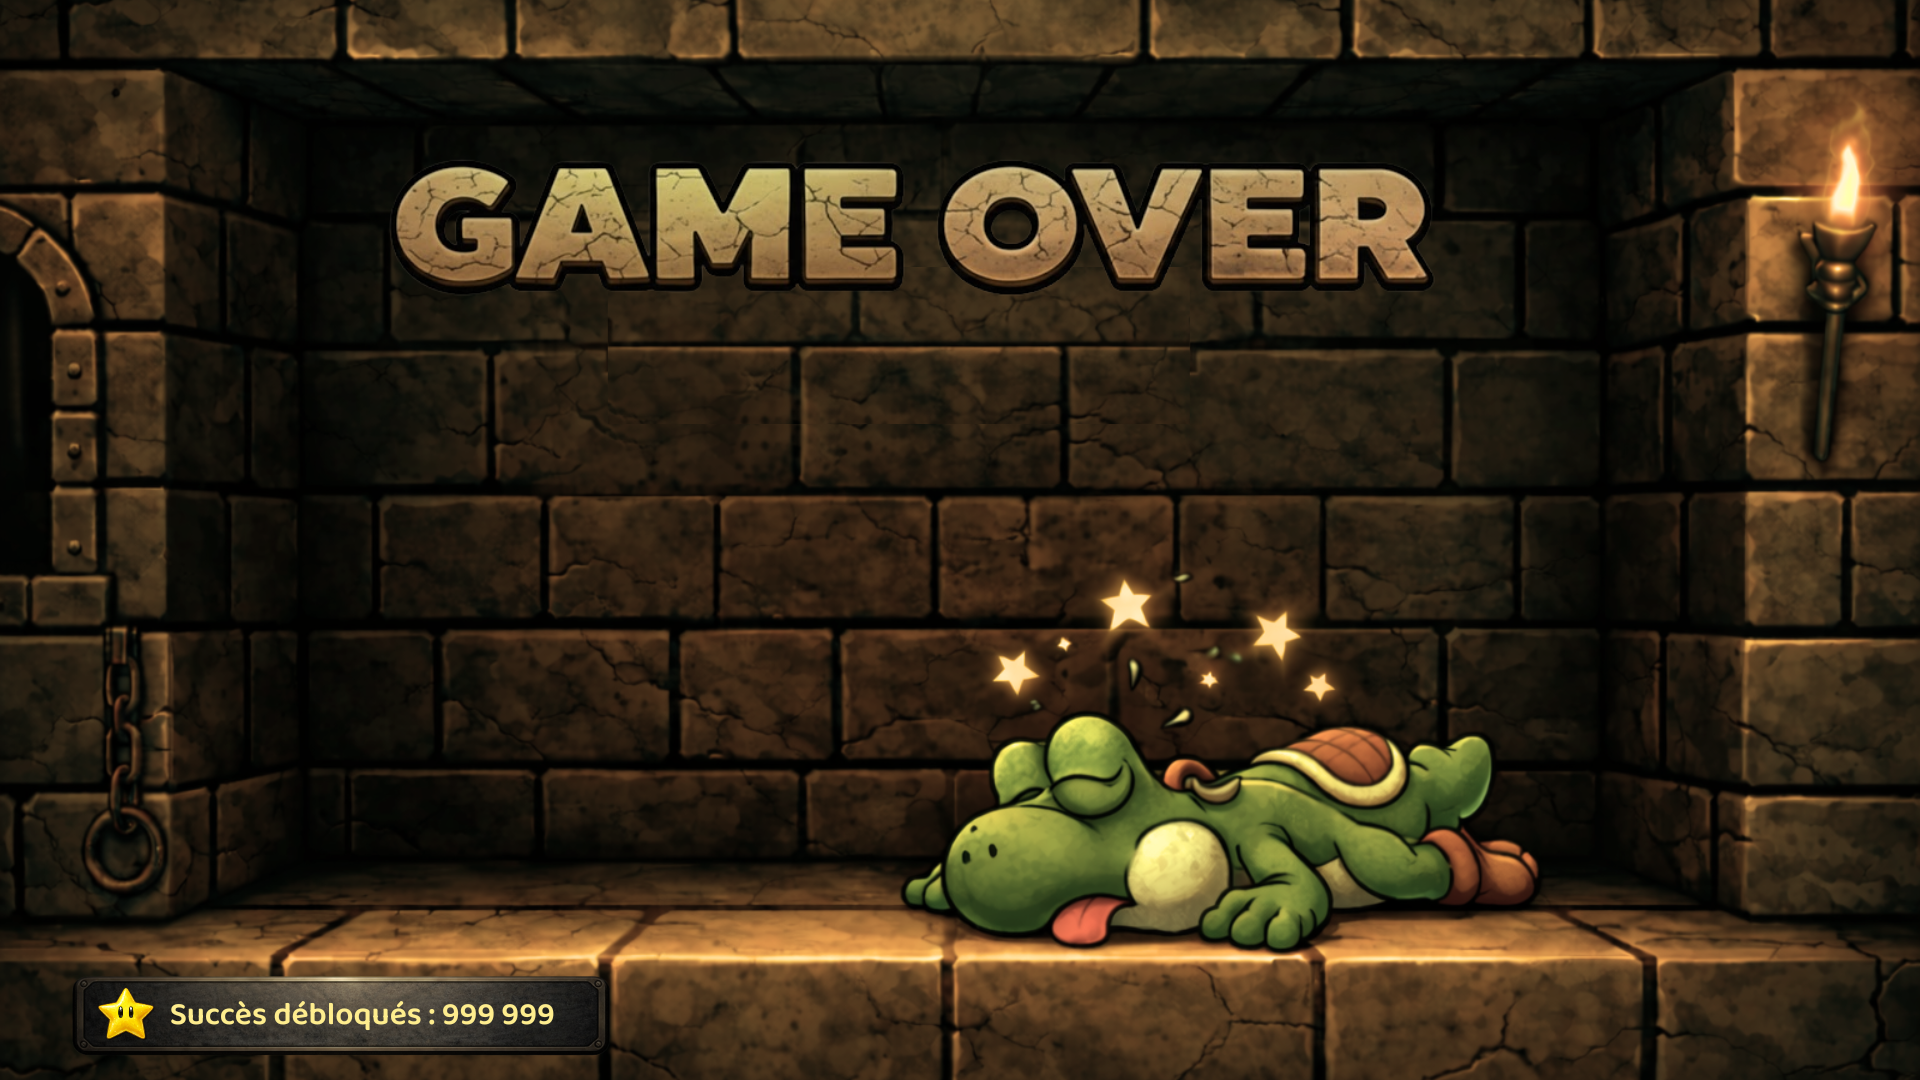
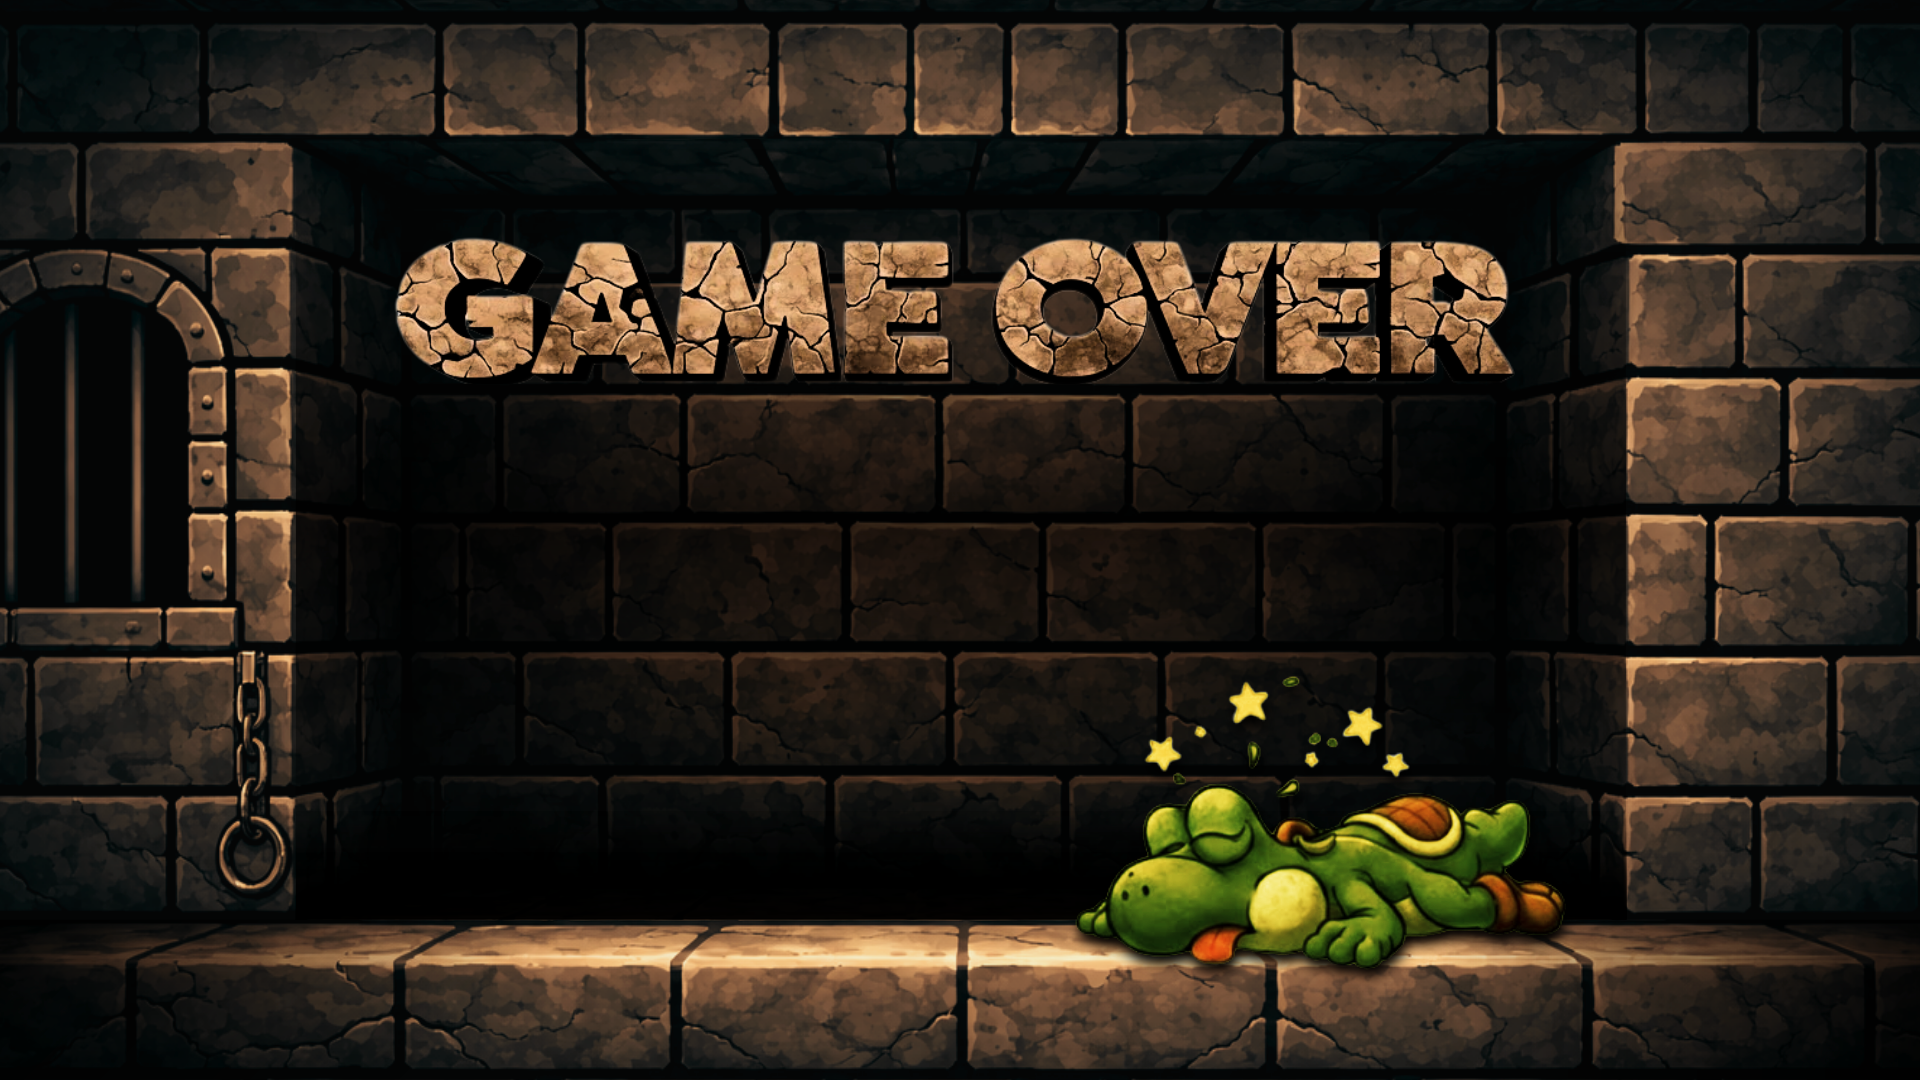
feat(game-over): rebuild scene with correct assets, FR/EN backgrounds, positions and achievements display

diff --git a/scenes/game_over_scene.py b/scenes/game_over_scene.py
@@ -5,6 +5,10 @@ GameOverScene - Écran de fin de partie.
 - Explosion : bombe tranchée (mode classique)
 - K.O : 3 cœurs perdus (mode classique)
 - Temps écoulé : fin du timer (mode challenge)
+
+Assets bilingues :
+- Les backgrounds changent selon la langue (FR/EN)
+- Les boutons sont identiques, le texte est ajouté dynamiquement
 """
 
 import pygame
@@ -14,7 +18,7 @@ from typing import List, Optional
 from scenes.base_scene import BaseScene
 from config import (
     IMAGES_DIR, FONTS_DIR, WINDOW_WIDTH, WINDOW_HEIGHT,
-    Images, Layout, TextColors, FONT_FILE, FONT_SIZE
+    Images, Layout, TextColors, FONT_FILE
 )
 from core import lang_manager
 from ui.buttons import Button
@@ -23,9 +27,11 @@ from ui.buttons import Button
 class GameOverScene(BaseScene):
     """Scène de fin de partie."""
     
-    # Tailles de police
-    SCORE_FONT_SIZE = 30
-    RECORD_FONT_SIZE = 36
+    # Tailles de police selon le tableau de specs
+    SCORE_FONT_SIZE = 40       # Score final et meilleur score
+    RECORD_FONT_SIZE = 45      # Nouveau record
+    BUTTON_FONT_SIZE = 36      # Texte des boutons
+    SUCCES_FONT_SIZE = 24      # Texte succès débloqués
     
     def __init__(self, scene_manager):
         super().__init__(scene_manager)
@@ -35,6 +41,10 @@ class GameOverScene(BaseScene):
         self.font_score = None
         self.font_record = None
         self.font_button = None
+        self.font_succes = None
+        
+        # Image du bouton succès
+        self.btn_succes_img = None
         
         # Boutons
         self.btn_rejouer: Optional[Button] = None
@@ -45,6 +55,7 @@ class GameOverScene(BaseScene):
         self.final_score = 0
         self.best_score = 0
         self.is_new_record = False
+        self.achievements_unlocked = 0  # Nombre de succès débloqués pendant la partie
     
     def setup(self):
         """Initialise la scène selon le type de game over."""
@@ -65,6 +76,9 @@ class GameOverScene(BaseScene):
         # Récupérer le meilleur score
         self._load_best_score()
         
+        # Récupérer le nombre de succès débloqués
+        self._count_achievements_unlocked()
+        
         # Charger les ressources
         self._load_resources()
     
@@ -84,34 +98,55 @@ class GameOverScene(BaseScene):
                 player_manager.update_high_score(category, self.final_score)
                 self.best_score = self.final_score
     
+    def _count_achievements_unlocked(self):
+        """Compte les succès débloqués pendant cette partie."""
+        achievement_manager = self.scene_manager.achievement_manager
+        if achievement_manager:
+            # Les notifications en attente sont les succès débloqués pendant la partie
+            # Note: on les compte sans les vider pour permettre l'affichage ailleurs
+            self.achievements_unlocked = len(achievement_manager.pending_notifications)
+        else:
+            self.achievements_unlocked = 0
+    
+    def _get_background_path(self) -> str:
+        """Retourne le chemin du background selon le type et la langue."""
+        lang = lang_manager.get_instance().get_language()
+        is_french = (lang == 'fr')
+        
+        if self.game_over_type == 'explosion':
+            return Images.GAMEOVER_EXPLOSION_BG_FR if is_french else Images.GAMEOVER_EXPLOSION_BG_EN
+        elif self.game_over_type == 'elapsed_time':
+            return Images.GAMEOVER_TIME_BG_FR if is_french else Images.GAMEOVER_TIME_BG_EN
+        else:  # ko
+            return Images.GAMEOVER_KO_BG_FR if is_french else Images.GAMEOVER_KO_BG_EN
+    
+    def _get_button_paths(self) -> tuple:
+        """Retourne les chemins des boutons selon le type."""
+        if self.game_over_type == 'explosion':
+            return (Images.GAMEOVER_EXPLOSION_BTN_REJOUER, Images.GAMEOVER_EXPLOSION_BTN_MENU)
+        elif self.game_over_type == 'elapsed_time':
+            return (Images.GAMEOVER_TIME_BTN_REJOUER, Images.GAMEOVER_TIME_BTN_MENU)
+        else:  # ko
+            return (Images.GAMEOVER_KO_BTN_REJOUER, Images.GAMEOVER_KO_BTN_MENU)
+    
     def _load_resources(self):
         """Charge les images et polices selon le type de game over."""
         # Polices
         font_path = os.path.join(FONTS_DIR, FONT_FILE)
         self.font_score = pygame.font.Font(font_path, self.SCORE_FONT_SIZE)
         self.font_record = pygame.font.Font(font_path, self.RECORD_FONT_SIZE)
-        self.font_button = pygame.font.Font(font_path, FONT_SIZE)
+        self.font_button = pygame.font.Font(font_path, self.BUTTON_FONT_SIZE)
+        self.font_succes = pygame.font.Font(font_path, self.SUCCES_FONT_SIZE)
         
-        # Charger le background et les boutons selon le type
-        if self.game_over_type == 'explosion':
-            bg_path = Images.GAMEOVER_EXPLOSION_BG
-            btn_rejouer_path = Images.GAMEOVER_EXPLOSION_BTN_REJOUER
-            btn_menu_path = Images.GAMEOVER_EXPLOSION_BTN_MENU
-        elif self.game_over_type == 'elapsed_time':
-            bg_path = Images.GAMEOVER_TIME_BG
-            btn_rejouer_path = Images.GAMEOVER_TIME_BTN_REJOUER
-            btn_menu_path = Images.GAMEOVER_TIME_BTN_MENU
-        else:  # ko
-            bg_path = Images.GAMEOVER_KO_BG
-            btn_rejouer_path = Images.GAMEOVER_KO_BTN_REJOUER
-            btn_menu_path = Images.GAMEOVER_KO_BTN_MENU
-        
-        # Background
+        # Background selon la langue
+        bg_path = self._get_background_path()
         self.background = pygame.image.load(
             os.path.join(IMAGES_DIR, bg_path)
         ).convert()
         
         # Boutons
+        btn_rejouer_path, btn_menu_path = self._get_button_paths()
+        
         self.btn_rejouer = Button(
             image_path=btn_rejouer_path,
             center=Layout.GAMEOVER_BTN_REJOUER,
@@ -127,6 +162,11 @@ class GameOverScene(BaseScene):
             text_color=TextColors.GAMEOVER_BTN_MENU,
             on_click=self._on_menu
         )
+        
+        # Bouton succès (juste l'image, pas cliquable)
+        self.btn_succes_img = pygame.image.load(
+            os.path.join(IMAGES_DIR, Images.GAMEOVER_BTN_SUCCES)
+        ).convert_alpha()
     
     # Callbacks
     def _on_rejouer(self):
@@ -168,9 +208,11 @@ class GameOverScene(BaseScene):
         if self.is_new_record:
             self._render_new_record(screen)
         
-        # Boutons
-        self.btn_rejouer.render(screen, self.font_button)
-        self.btn_menu.render(screen, self.font_button)
+        # Boutons (avec texte dynamique)
+        self._render_buttons(screen)
+        
+        # Succès débloqués
+        self._render_achievements(screen)
     
     def _render_score(self, screen: pygame.Surface):
         """Affiche le score final."""
@@ -198,8 +240,71 @@ class GameOverScene(BaseScene):
         """Affiche le texte 'Nouveau record !'."""
         record_text = lang_manager.get("game_over.new_record")
         record_surface = self.font_record.render(record_text, True, TextColors.GAMEOVER_NEW_RECORD)
-        record_rect = record_surface.get_rect(center=Layout.GAMEOVER_NEW_RECORD)
+        record_rect = record_surface.get_rect(
+            left=Layout.GAMEOVER_NEW_RECORD[0],
+            centery=Layout.GAMEOVER_NEW_RECORD[1]
+        )
         screen.blit(record_surface, record_rect)
+    
+    def _render_buttons(self, screen: pygame.Surface):
+        """Affiche les boutons avec leur texte et effets hover/clic."""
+        # Bouton Rejouer - utiliser le rendu de Button pour les effets
+        self._render_button_with_effects(
+            screen, 
+            self.btn_rejouer, 
+            lang_manager.get("game_over.retry_button"),
+            TextColors.GAMEOVER_BTN_REJOUER,
+            Layout.GAMEOVER_TEXT_REJOUER
+        )
+        
+        # Bouton Menu
+        self._render_button_with_effects(
+            screen, 
+            self.btn_menu, 
+            lang_manager.get("game_over.menu_button"),
+            TextColors.GAMEOVER_BTN_MENU,
+            Layout.GAMEOVER_TEXT_MENU
+        )
+    
+    def _render_button_with_effects(self, screen: pygame.Surface, button: Button, 
+                                     text: str, text_color: tuple, text_center: tuple):
+        """Affiche un bouton avec effets hover/clic et texte à une position spécifique."""
+        # Sélectionner l'image selon l'état du bouton
+        if button.is_pressed:
+            image = button.image_click
+            # Ajuster la position du texte pour le scale du clic
+            text_pos = text_center
+        elif button.is_hovered:
+            image = button.image_hover
+            text_pos = text_center
+        else:
+            image = button.image_original
+            text_pos = text_center
+        
+        # Afficher l'image du bouton
+        image_rect = image.get_rect(center=button.center)
+        screen.blit(image, image_rect)
+        
+        # Afficher le texte
+        text_surface = self.font_button.render(text, True, text_color)
+        text_rect = text_surface.get_rect(center=text_pos)
+        screen.blit(text_surface, text_rect)
+    
+    def _render_achievements(self, screen: pygame.Surface):
+        """Affiche le nombre de succès débloqués pendant la partie."""
+        # Image du bouton succès (fond)
+        btn_rect = self.btn_succes_img.get_rect(center=Layout.GAMEOVER_BTN_SUCCES)
+        screen.blit(self.btn_succes_img, btn_rect)
+        
+        # Texte du nombre de succès débloqués
+        succes_label = lang_manager.get("game_over.achievements_unlocked")
+        succes_text = f"{succes_label} : {self.achievements_unlocked}"
+        succes_surface = self.font_succes.render(succes_text, True, TextColors.GAMEOVER_SUCCES)
+        succes_rect = succes_surface.get_rect(
+            left=Layout.GAMEOVER_SUCCES_TEXT[0],
+            centery=Layout.GAMEOVER_SUCCES_TEXT[1]
+        )
+        screen.blit(succes_surface, succes_rect)
     
     def cleanup(self):
         """Nettoyage à la sortie de la scène."""

diff --git a/config.py b/config.py
@@ -64,9 +64,10 @@ class TextColors:
 
     # Game Over Scene
     GAMEOVER_SCORE = (254, 237, 142)       # #feed8e
-    GAMEOVER_NEW_RECORD = (255, 176, 110)  # #ffb06e
+    GAMEOVER_NEW_RECORD = (255, 176, 110)  # #ffb06e - couleur #ffb06e
     GAMEOVER_BTN_REJOUER = (254, 237, 142) # #feed8e
     GAMEOVER_BTN_MENU = (239, 183, 255)    # #efb7ff
+    GAMEOVER_SUCCES = (254, 237, 142)      # #feed8e
 
 
 # ==================== IMAGES ====================
@@ -205,20 +206,26 @@ class Images:
     TUTO_CHALLENGE_BTN_PLAY = "scenes/tutorial_scene/challenge/Bouton jouer tuto 4 challenge 285x73.png"
 
     # Game Over Scene
-    # Explosion (bombe tranchée)
-    GAMEOVER_EXPLOSION_BG = "scenes/game_over_scene/explosion/Background game over explosion1920x1080.png"
+    # Explosion (bombe tranchée) - FR/EN
+    GAMEOVER_EXPLOSION_BG_FR = "scenes/game_over_scene/explosion/Background défaite explosion1920x1080.png"
+    GAMEOVER_EXPLOSION_BG_EN = "scenes/game_over_scene/explosion/Background game over explosion1920x1080.png"
     GAMEOVER_EXPLOSION_BTN_REJOUER = "scenes/game_over_scene/explosion/Bouton rejouer game over explosion 458x89.png"
     GAMEOVER_EXPLOSION_BTN_MENU = "scenes/game_over_scene/explosion/Bouton menu game over explosion 458x89.png"
     
-    # K.O (3 cœurs perdus)
-    GAMEOVER_KO_BG = "scenes/game_over_scene/K.O/Background game over ko1920x1080.png"
+    # K.O (3 cœurs perdus) - FR/EN
+    GAMEOVER_KO_BG_FR = "scenes/game_over_scene/K.O/Background défaite ko1920x1080.png"
+    GAMEOVER_KO_BG_EN = "scenes/game_over_scene/K.O/Background game over ko1920x1080.png"
     GAMEOVER_KO_BTN_REJOUER = "scenes/game_over_scene/K.O/Bouton rejouer game over ko 458x89.png"
     GAMEOVER_KO_BTN_MENU = "scenes/game_over_scene/K.O/Bouton menu game over ko 458x89.png"
     
-    # Temps écoulé (challenge)
-    GAMEOVER_TIME_BG = "scenes/game_over_scene/elapsed_time/Background temps écoulé challenge1920x1080.png"
+    # Temps écoulé (challenge) - FR/EN
+    GAMEOVER_TIME_BG_FR = "scenes/game_over_scene/elapsed_time/Background temps écoulé challenge1920x1080.png"
+    GAMEOVER_TIME_BG_EN = "scenes/game_over_scene/elapsed_time/Background time_s up challenge1920x1080.png"
     GAMEOVER_TIME_BTN_REJOUER = "scenes/game_over_scene/elapsed_time/Bouton temps écoulé challenge 458x89.png"
     GAMEOVER_TIME_BTN_MENU = "scenes/game_over_scene/elapsed_time/Bouton menu temps écoulé challenge 458x89.png"
+    
+    # Bouton succès (commun à toutes les variantes)
+    GAMEOVER_BTN_SUCCES = "scenes/game_over_scene/explosion/Bouton succes 544x80.png"
 
 
 # ==================== POSITIONS (centre des éléments) ====================
@@ -270,12 +277,24 @@ class Layout:
         (1157, 1016),  # Bleu
     ]
 
-    # Game Over Scene
-    GAMEOVER_SCORE_FINAL = (394, 395)      # Point de justification gauche
-    GAMEOVER_BEST_SCORE = (394, 478)       # Point de justification gauche
-    GAMEOVER_NEW_RECORD = (960, 395)       # Centre
-    GAMEOVER_BTN_REJOUER = (597, 632)      # Centre
-    GAMEOVER_BTN_MENU = (597, 767)         # Centre
+    # Game Over Scene (coordonnées selon le tableau de specs)
+    # Scores : justifié gauche (left=394)
+    GAMEOVER_SCORE_FINAL = (394, 476)      # Point de justification gauche, centery
+    GAMEOVER_BEST_SCORE = (394, 558)       # Point de justification gauche, centery
+    GAMEOVER_NEW_RECORD = (962, 474)       # Justifié gauche, centery
+    
+    # Boutons : centre
+    GAMEOVER_BTN_REJOUER = (597, 688)      # Centre du bouton
+    GAMEOVER_BTN_MENU = (597, 823)         # Centre du bouton
+    
+    # Textes boutons (légèrement différent du centre bouton selon specs)
+    GAMEOVER_TEXT_REJOUER = (597, 687)     # Centre du texte
+    GAMEOVER_TEXT_MENU = (597, 823)        # Centre du texte
+    
+    # Succès débloqués
+    GAMEOVER_SUCCES_TEXT = (170, 1016)     # Justifié gauche, centery
+    GAMEOVER_BTN_SUCCES = (342, 1016)      # Centre du bouton succès
+
 
 # ==================== GAMEPLAY ====================
 
@@ -363,8 +382,8 @@ KEYBOARD_LETTERS = ['A', 'Z', 'E', 'R', 'T', 'Q', 'S', 'D', 'F', 'G', 'W', 'X', 
 # ==================== AUDIO ====================
 
 class AudioConfig:
-    DEFAULT_MUSIC_VOLUME = 0.5
-    DEFAULT_SFX_VOLUME = 0.5
+    DEFAULT_MUSIC_VOLUME = 0.2
+    DEFAULT_SFX_VOLUME = 0.9
 
 
 # ==================== DEBUG ====================
